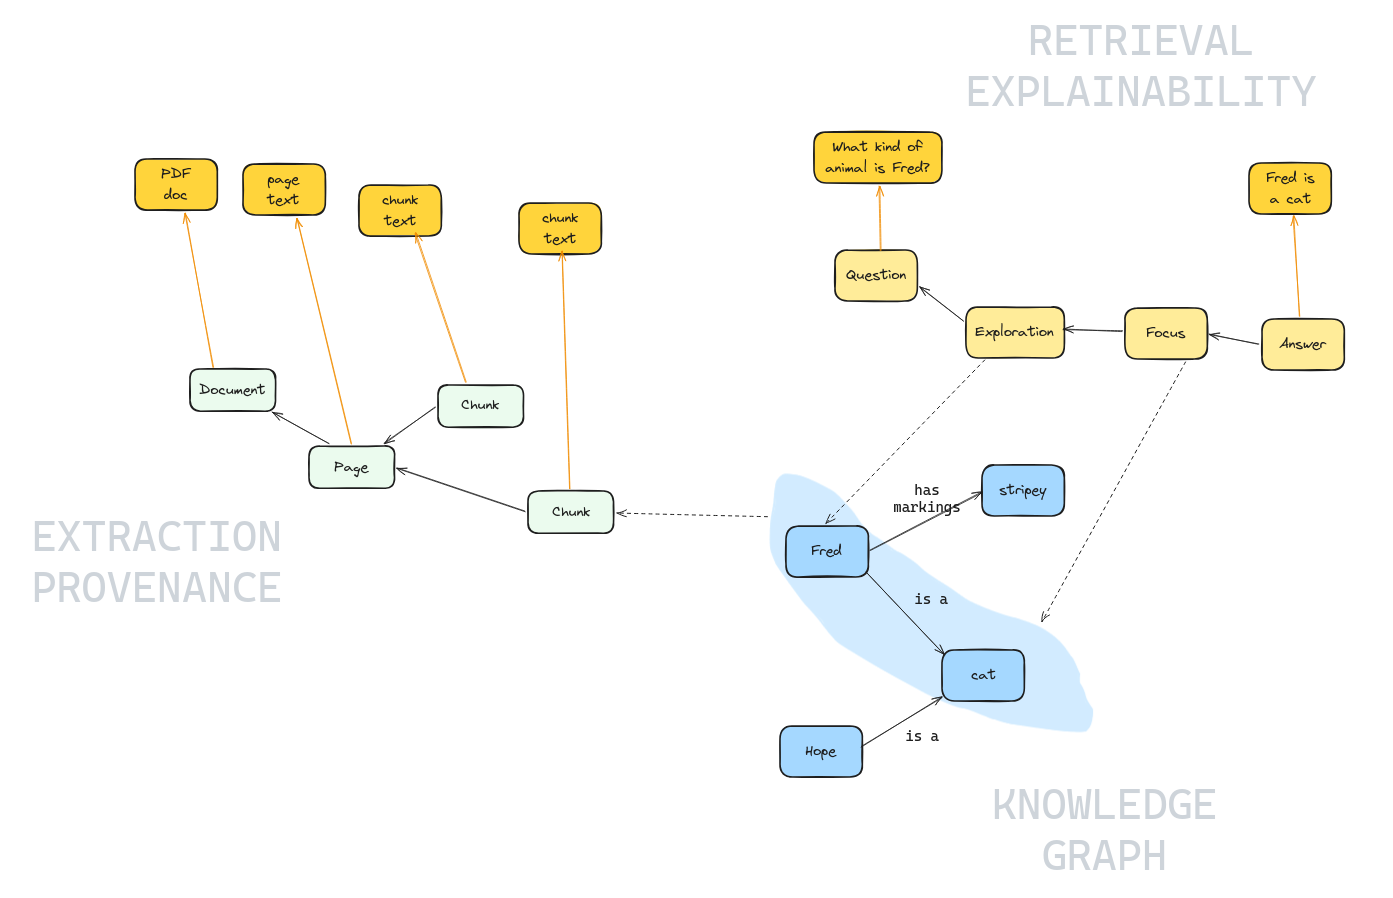
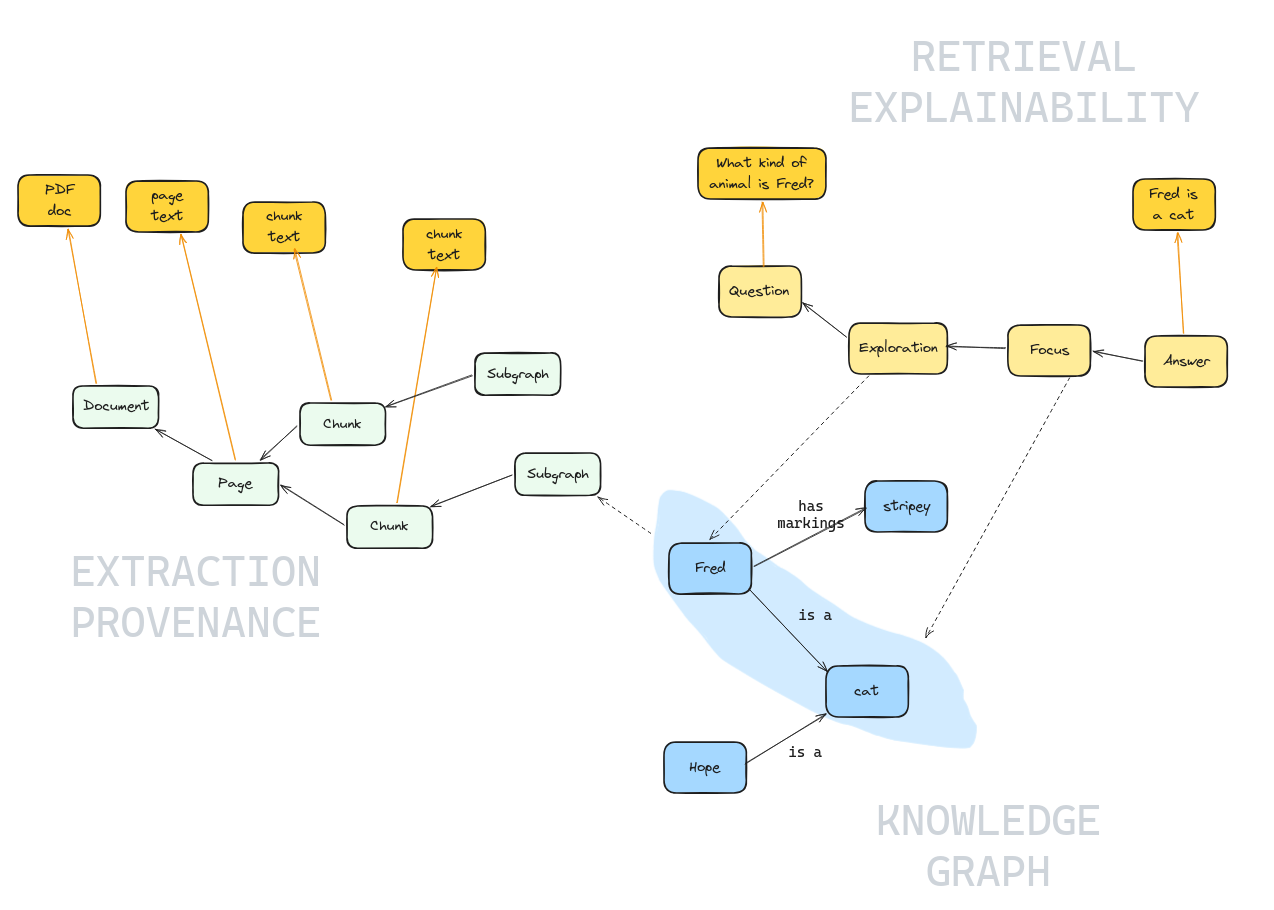
Context graph explanation

diff --git a/overview/explainability.md b/overview/explainability.md
@@ -71,12 +71,16 @@ traces — all through the same API.
 <img src="context-graph.png">
 
 This diagram shows how the three layers of TrustGraph's data model
-connect together:
+connect together.  Nodes in the graph store are shown in green, blue, and
+yellow.  The dark orange boxes represent content stored in an **object
+store** (the raw text of documents, pages, chunks, and answers) rather
+than in the graph — the orange arrows show how graph nodes reference
+their corresponding object-store content.
 
 - **Extraction Provenance** (left, green) — tracks how knowledge entered
   the system.  A Document is broken into Pages, which are split into
-  Chunks.  Orange arrows link each node to its text content (the original
-  PDF, page text, chunk text).
+  Chunks.  Each of these graph nodes references its text content in the
+  object store (the original PDF, page text, chunk text).
 - **Knowledge Graph** (bottom right, blue) — the core entities and
   relationships extracted from chunks.  In this example, *Fred is a cat*
   with *stripey markings*, and *Hope is also a cat*.  The dashed line from
@@ -85,7 +89,8 @@ connect together:
   path when a query is answered.  A Question flows through Exploration
   and Focus stages to produce an Answer.  The blue highlight shows which
   knowledge graph edges were selected during the Focus stage, and dashed
-  lines connect those edges back to the retrieval trace.
+  lines connect those edges back to the retrieval trace.  The question
+  text and answer text are stored in the object store.
 
 The key insight is that all three layers are queryable through the same
 graph store.  Given an answer, you can follow the retrieval trace to see
